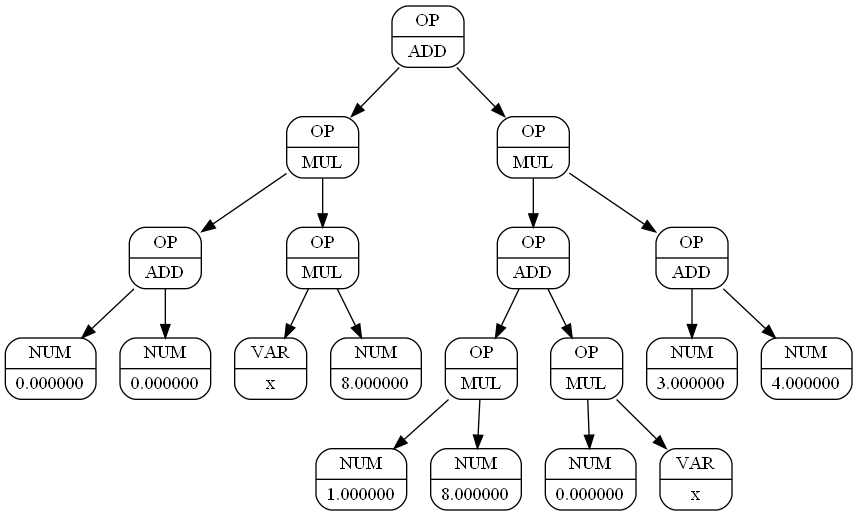
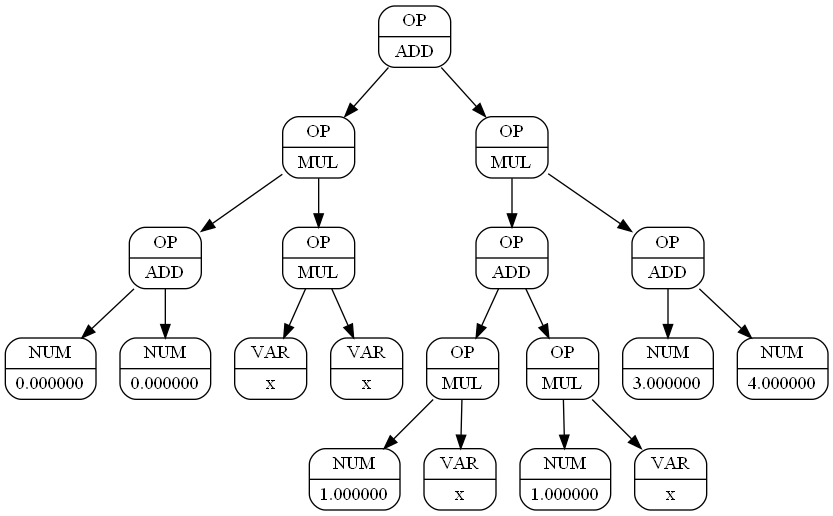
начал писать вывод в tex-file

diff --git a/main.cpp b/main.cpp
@@ -55,13 +55,13 @@ tree_diff_node_t* subtree_copy(tree_diff_node_t* node);
 tree_diff_node_t* node_copy(tree_diff_node_t* node);
 //-----------------------------------------------------------------
 int main(){
-    tree_diff_node_t* node1 = create_node(OP, 2, NULL, NULL, NULL);
+    tree_diff_node_t* node1 = create_node(OP, 3, NULL, NULL, NULL);
     tree_diff_node_t* node2 = create_node(OP, 0, NULL, NULL, NULL);
-    tree_diff_node_t* node3 = create_node(NUM, 3, NULL, NULL, NULL);
-    tree_diff_node_t* node4 = create_node(NUM, 4, NULL, NULL, NULL);
+    tree_diff_node_t* node3 = create_node(VAR, 0, NULL, NULL, NULL);
+    tree_diff_node_t* node4 = create_node(VAR, 0, NULL, NULL, NULL);
     tree_diff_node_t* node5 = create_node(OP, 2, NULL, NULL, NULL);
     tree_diff_node_t* node6 = create_node(VAR, 0, NULL, NULL, NULL);
-    tree_diff_node_t* node7 = create_node(NUM, 8, NULL, NULL, NULL);
+    tree_diff_node_t* node7 = create_node(VAR, 0, NULL, NULL, NULL);
 
     link_nodes(node1, node2, node5);
     link_nodes(node2, node3, node4);
@@ -81,7 +81,7 @@ int main(){
     tree_viz(diff_tree, file_with_deritative);
     tree_viz(node1, viz_file);
 
-    printf("%lf\n", calculate_subtree(diff_tree, 2));
+    printf("%lf\n", calculate_subtree(diff_tree, 10));
     delete_tree(node1);
 
     fclose(file_with_deritative);
@@ -157,6 +157,52 @@ bool is_node_have_left(tree_diff_node_t* node){
 bool is_node_have_right(tree_diff_node_t* node){
     assert(node);
     return (node->right != NULL);
+}
+//-----------------------------------------------------------------
+void tex_viz_of_tree(tree_diff_node_t* node, FILE* tex_file){
+    assert(node);
+    assert(tex_file);
+
+    fprintf(tex_file, "$");
+    fprintf(tex_file, "$");
+}
+//-----------------------------------------------------------------
+void tex_viz_of_nodes(tree_diff_node_t* node, FILE* tex_file){
+    assert(node);
+    assert(tex_file);
+
+    if(node->type == NUM){ 
+        fprintf(tex_file, "%lf", node->val);
+        return;
+    }
+    if(node->type == VAR){
+        switch((int) node->val){
+            case 0:
+                fprintf(tex_file, "x");
+                return;
+            case 1:
+                fprintf(tex_file, "y");
+                return;
+            default:
+                fprintf(tex_file, "Invalid variable\n");
+                return;
+        }
+    }
+    if(node->type == OP){
+        switch (OP){
+        case 0:
+            /* code */
+            break;
+        case 1:
+        case 2:
+        case 3:
+        default:
+            fprintf("Invalid type of operation\n");
+            return;
+        }
+    }
+
+    fprintf(tex_file, "Invalid type of node\n");
 }
 //-----------------------------------------------------------------
 void tree_viz(tree_diff_node_t* root, FILE* viz_file){
